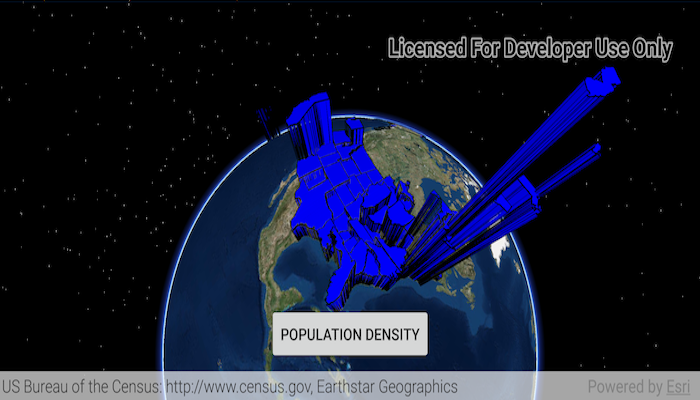
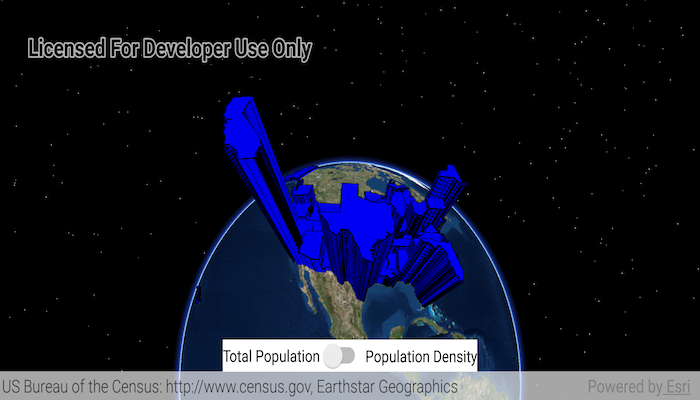
change button to switch and update screenshot (#523)

diff --git a/java/feature-layer-extrusion/src/main/java/com/esri/arcgisruntime/sample/featurelayerextrusion/MainActivity.java b/java/feature-layer-extrusion/src/main/java/com/esri/arcgisruntime/sample/featurelayerextrusion/MainActivity.java
@@ -19,7 +19,7 @@ package com.esri.arcgisruntime.sample.featurelayerextrusion;
 import android.graphics.Color;
 import android.os.Bundle;
 import android.support.v7.app.AppCompatActivity;
-import android.widget.ToggleButton;
+import android.widget.Switch;
 
 import com.esri.arcgisruntime.data.ServiceFeatureTable;
 import com.esri.arcgisruntime.geometry.Point;
@@ -38,18 +38,10 @@ public class MainActivity extends AppCompatActivity {
 
   private SceneView mSceneView;
 
-  private boolean showTotalPopulation;
-
   @Override
   protected void onCreate(final Bundle savedInstanceState) {
     super.onCreate(savedInstanceState);
     setContentView(R.layout.activity_main);
-
-    // set flag for showing total population or population density
-    showTotalPopulation = true;
-
-    // inflate population type toggle button
-    final ToggleButton togglePopButton = findViewById(R.id.toggleButton);
 
     // get us census data as a service feature table
     ServiceFeatureTable statesServiceFeatureTable = new ServiceFeatureTable(
@@ -83,21 +75,21 @@ public class MainActivity extends AppCompatActivity {
     final Camera camera = new Camera(lookAtPoint, 20000000, 0, 55, 0);
     mSceneView.setViewpointCamera(camera);
 
-    // set button listener
-    togglePopButton.setOnClickListener(v -> {
+    // set switch listener
+    Switch popSwitch = findViewById(R.id.populationSwitch);
+    popSwitch.setOnCheckedChangeListener((buttonView, isChecked) -> {
       // set extrusion properties to either show total population or population density based on flag
-      if (showTotalPopulation) {
-        // divide total population by 10 to make data legible
-        renderer.getSceneProperties().setExtrusionExpression("[POP2007] / 10");
-        showTotalPopulation = false;
-      } else {
+      if (isChecked) {
         // multiple population density by 5000 to make data legible
         renderer.getSceneProperties().setExtrusionExpression("[POP07_SQMI] * 5000 + 100000");
-        showTotalPopulation = true;
+      } else {
+        // divide total population by 10 to make data legible
+        renderer.getSceneProperties().setExtrusionExpression("[POP2007] / 10");
       }
     });
-    // click to set initial state
-    togglePopButton.performClick();
+
+    // set initial switch state
+    popSwitch.setChecked(true);
   }
 
   @Override
